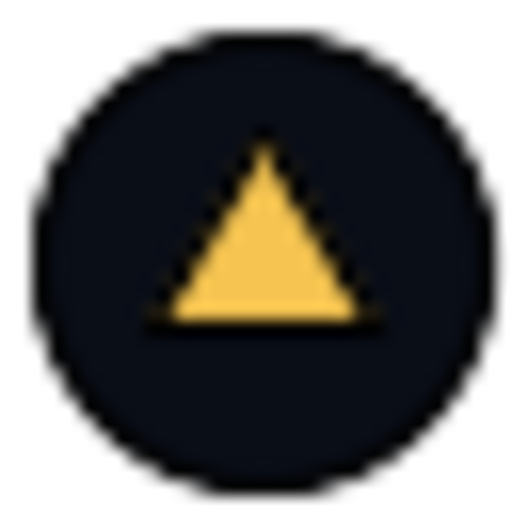
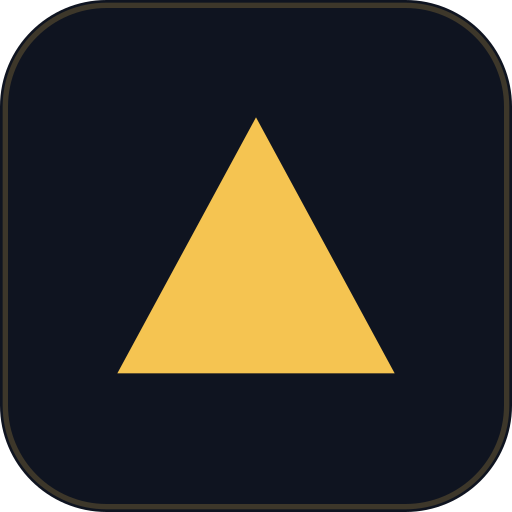
fix:notification issue

diff --git a/public/sw.js b/public/sw.js
@@ -136,48 +136,28 @@ self.addEventListener('push', (event) => {
 self.addEventListener('notificationclick', (event) => {
   event.notification.close();
 
-  // Handle action buttons
-  if (event.action === 'dismiss') {
-    return;
-  }
+  if (event.action === 'dismiss') return;
 
   const targetPath = event.notification.data?.url || '/comms';
+  // Build the full URL from the service worker's origin
+  const origin = new URL(self.registration.scope).origin;
+  const fullUrl = origin + targetPath;
 
   event.waitUntil(
     clients.matchAll({ type: 'window', includeUncontrolled: true }).then((windowClients) => {
-      // Look for any existing app window
+      // 1. Try to find and focus an existing PWA window
       for (const client of windowClients) {
-        try {
-          const clientUrl = new URL(client.url);
-          if (clientUrl.pathname === targetPath || clientUrl.pathname.startsWith(targetPath)) {
-            client.focus();
-            client.navigate(clientUrl.origin + targetPath);
-            return;
-          }
-        } catch (e) {
-          if (client.url.includes(targetPath)) {
-            return client.focus();
-          }
+        if ('focus' in client) {
+          return client.focus().then((focused) => {
+            if (focused && 'navigate' in focused) {
+              return focused.navigate(fullUrl);
+            }
+          });
         }
       }
 
-      // If any window is open at all, focus it and navigate
-      if (windowClients.length > 0) {
-        const client = windowClients[0];
-        client.focus();
-        try {
-          const clientUrl = new URL(client.url);
-          client.navigate(clientUrl.origin + targetPath);
-        } catch (e) {
-          // fallback
-        }
-        return;
-      }
-
-      // No window open — open a new one
-      if (clients.openWindow) {
-        return clients.openWindow(targetPath);
-      }
+      // 2. No existing window — open new one (Android will open in PWA if installed)
+      return clients.openWindow(fullUrl);
     })
   );
 });